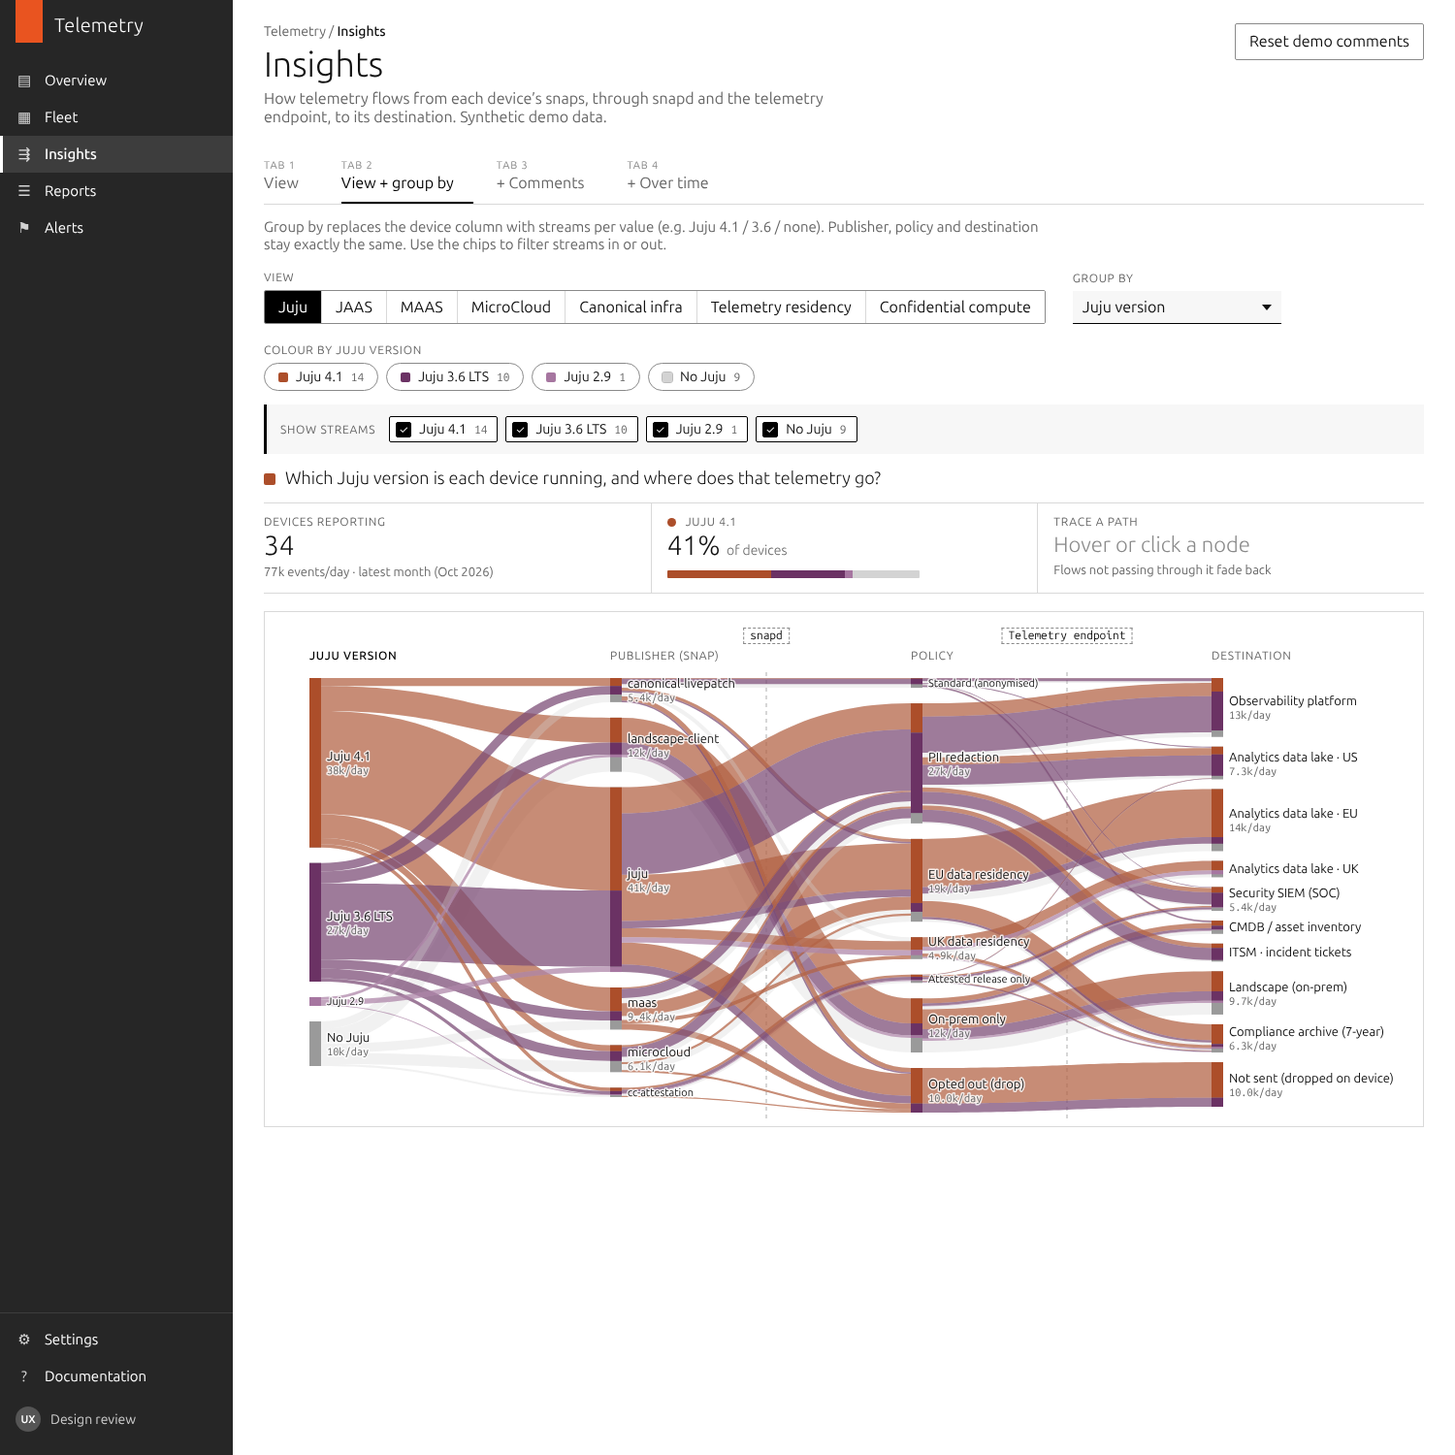
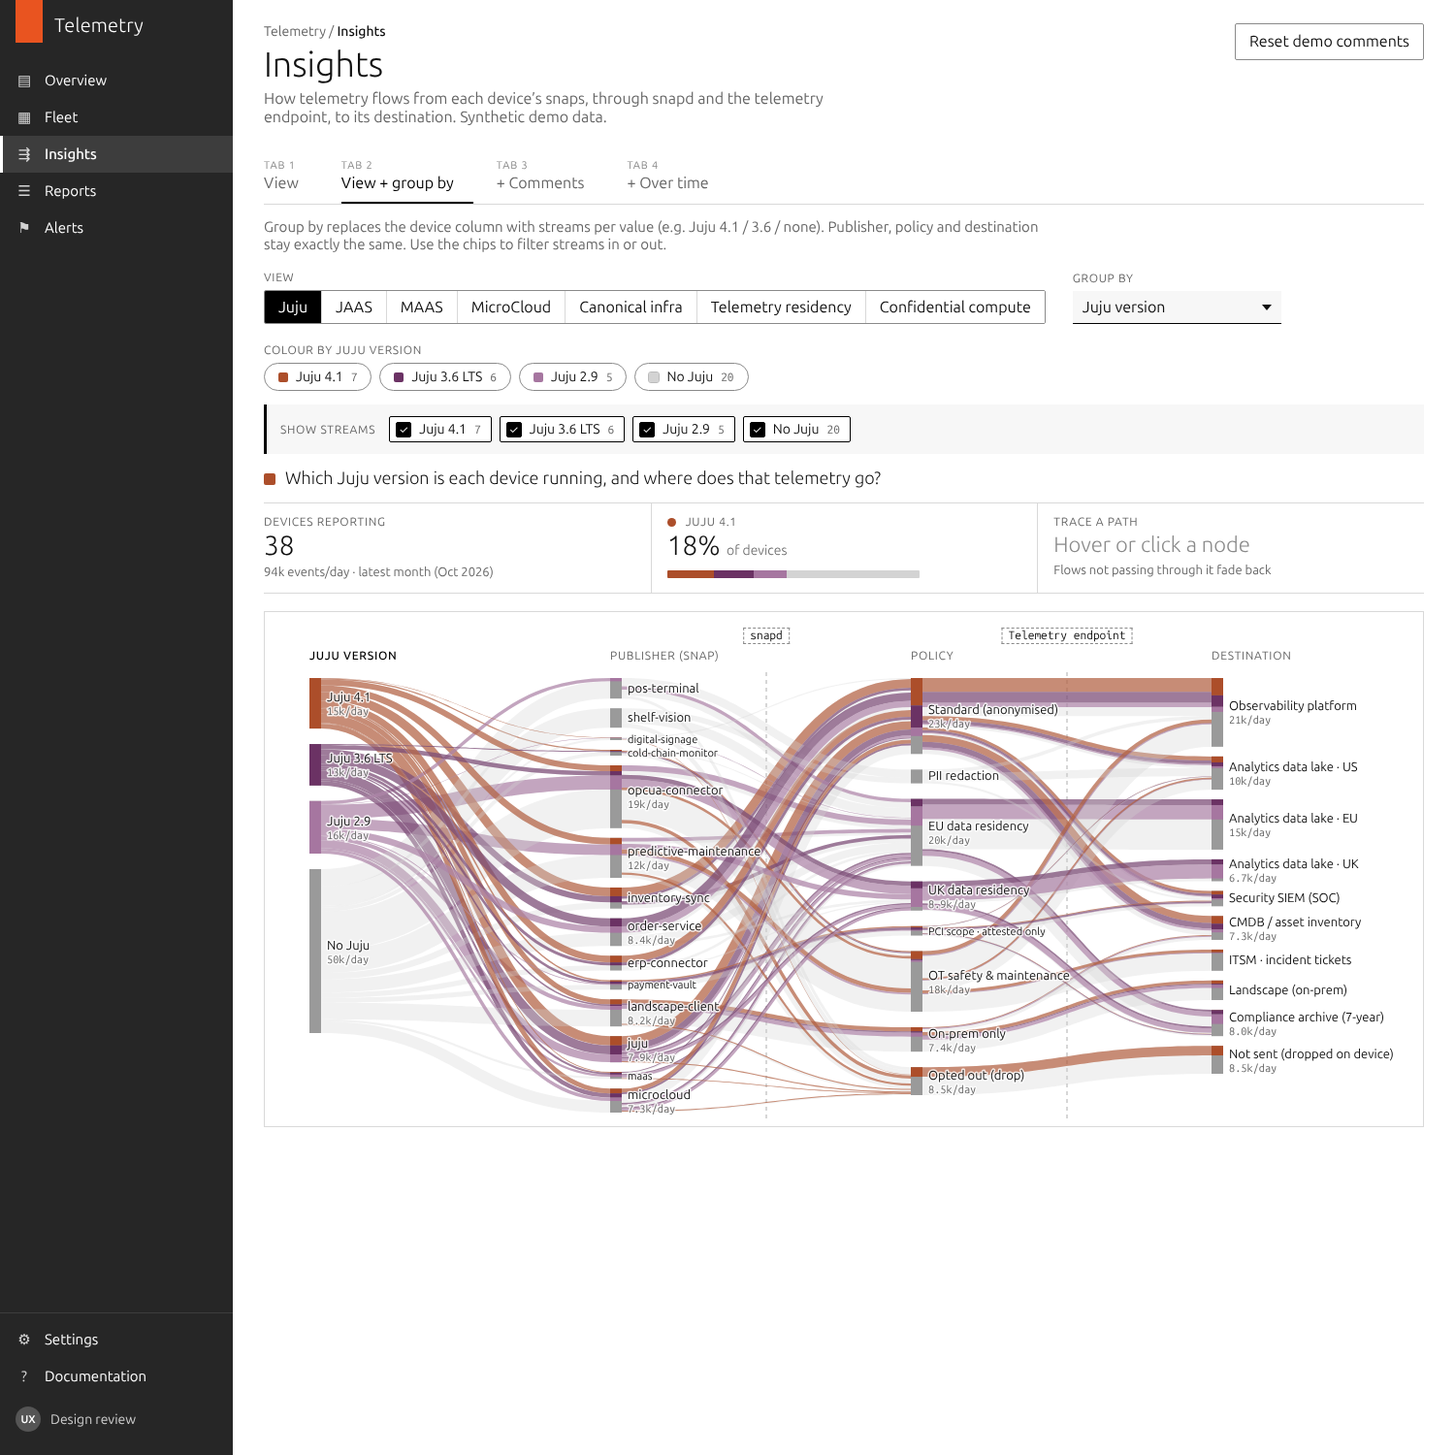
Model publishers as a customer's fleet, not Canonical's own snaps
Publishers are now the snaps a large retailer or manufacturer runs
across stores, factories, distribution centres, data centres and cloud
(pos-terminal, shelf-vision, opcua-connector, predictive-maintenance,
order-service, erp-connector, payment-vault, ...), with Canonical
infrastructure snaps as a minority. Adds a Site attribute (also a
group-by), an OT safety & maintenance policy, PCI-scope payment policy,
snap descriptions in tooltips, and seeded comments written by the
customer's own teams.

Claude-Session: https://claude.ai/code/session_0156BKrAD5wHGfcWHmuamSMf

diff --git a/js/data.js b/js/data.js
@@ -111,6 +111,10 @@ window.TL = window.TL || {};
       { id: 'tdx', label: 'Intel TDX', color: true },
       { id: 'snp', label: 'AMD SEV-SNP', color: true },
       { id: 'none', label: 'Not confidential', color: GREY }] },
+    site: { label: 'Site', short: 'Site', values: [
+      { id: 'store', label: 'Retail store' }, { id: 'factory', label: 'Factory floor' },
+      { id: 'dc', label: 'Distribution centre' }, { id: 'datacentre', label: 'Data centre' },
+      { id: 'cloud', label: 'Public cloud' }] },
     type: { label: 'Device type', short: 'Type', values: [
       { id: 'metal', label: 'Bare-metal server' }, { id: 'vm', label: 'Virtual machine' },
       { id: 'k8s', label: 'Kubernetes node' }, { id: 'edge', label: 'Edge device' }] },
@@ -135,19 +139,31 @@ window.TL = window.TL || {};
   // snaps into one stream and sends it to the telemetry endpoint, which
   // demultiplexes, routes and forwards. Labels are the snap names that
   // snapd enforces.
+  // A mix of the customer's own applications, partner software and a few
+  // Canonical infrastructure snaps, as a large retailer / manufacturer might
+  // run across stores, factories, distribution centres, data centres and cloud.
   const PUBLISHERS = { label: 'Publisher (snap)', values: [
-    { id: 'livepatch', label: 'canonical-livepatch' },
-    { id: 'landscape', label: 'landscape-client' },
-    { id: 'juju', label: 'juju', canonical: true },
-    { id: 'maas', label: 'maas', canonical: true },
-    { id: 'microcloud', label: 'microcloud', canonical: true },
-    { id: 'attest', label: 'cc-attestation' }] };
+    { id: 'pos', label: 'pos-terminal', note: 'Point-of-sale service on store tills' },
+    { id: 'shelfcam', label: 'shelf-vision', note: 'Computer-vision shelf monitoring (cameras)' },
+    { id: 'signage', label: 'digital-signage', note: 'In-store and factory display player' },
+    { id: 'coldchain', label: 'cold-chain-monitor', note: 'Refrigeration and temperature sensors' },
+    { id: 'plc', label: 'opcua-connector', note: 'Collects data from factory PLCs over OPC UA' },
+    { id: 'predmaint', label: 'predictive-maintenance', note: 'ML inference for equipment and vehicle wear' },
+    { id: 'inventory', label: 'inventory-sync', note: 'Stock levels between stores, DCs and ERP' },
+    { id: 'order', label: 'order-service', note: 'E-commerce order API' },
+    { id: 'erp', label: 'erp-connector', note: 'Integration with the ERP system' },
+    { id: 'payment', label: 'payment-vault', note: 'Card payment processing in a confidential VM' },
+    { id: 'landscape', label: 'landscape-client', note: 'Fleet management agent' },
+    { id: 'juju', label: 'juju', canonical: true, note: 'Application operations' },
+    { id: 'maas', label: 'maas', canonical: true, note: 'Bare-metal provisioning' },
+    { id: 'microcloud', label: 'microcloud', canonical: true, note: 'Edge/private cloud cluster' }] };
   const POLICIES = { label: 'Policy', values: [
     { id: 'standard', label: 'Standard (anonymised)' },
     { id: 'redact', label: 'PII redaction' },
     { id: 'eu-res', label: 'EU data residency' },
     { id: 'uk-res', label: 'UK data residency' },
-    { id: 'attested', label: 'Attested release only' },
+    { id: 'attested', label: 'PCI scope · attested only' },
+    { id: 'ot', label: 'OT safety & maintenance' },
     { id: 'local', label: 'On-prem only' },
     { id: 'drop', label: 'Opted out (drop)' }] };
   // Destinations are the customer's own systems (illustrative roles for a
@@ -172,12 +188,13 @@ window.TL = window.TL || {};
   //   'endpoint' – at the telemetry endpoint, after demultiplexing
   const ROUTING = [
     { id: 'R1', at: 'snapd', when: { consent: 'optout' }, policy: 'drop', to: [['discard', 1]] },
-    { id: 'R2', at: 'endpoint', when: { publisher: 'attest' }, policy: 'attested', to: [['siem', 0.6], ['archive', 0.25], ['lake-us', 0.15]] },
+    { id: 'R2', at: 'endpoint', when: { publisher: 'payment' }, policy: 'attested', to: [['siem', 0.6], ['archive', 0.25], ['lake-us', 0.15]] },
     { id: 'R3', at: 'endpoint', when: { publisher: 'landscape' }, policy: 'local', to: [['landscape', 0.8], ['cmdb', 0.2]] },
     { id: 'R4', at: 'endpoint', when: { sovereignty: 'eu' }, policy: 'eu-res', to: [['lake-eu', 0.75], ['archive', 0.25]] },
     { id: 'R5', at: 'endpoint', when: { sovereignty: 'uk' }, policy: 'uk-res', to: [['lake-uk', 0.75], ['archive', 0.25]] },
-    { id: 'R6', at: 'snapd', when: { publisher: ['juju', 'maas', 'microcloud'] }, policy: 'redact', to: [['observability', 0.45], ['lake-us', 0.25], ['itsm', 0.15], ['siem', 0.15]] },
-    { id: 'R7', at: 'endpoint', when: {}, policy: 'standard', to: [['observability', 0.5], ['cmdb', 0.25], ['siem', 0.1], ['lake-us', 0.15]] }
+    { id: 'R6', at: 'snapd', when: { publisher: ['pos', 'shelfcam'] }, policy: 'redact', to: [['lake-us', 0.6], ['observability', 0.25], ['siem', 0.15]] },
+    { id: 'R7', at: 'endpoint', when: { publisher: ['plc', 'predmaint', 'coldchain'] }, policy: 'ot', to: [['observability', 0.45], ['itsm', 0.35], ['lake-us', 0.2]] },
+    { id: 'R8', at: 'endpoint', when: {}, policy: 'standard', to: [['observability', 0.5], ['cmdb', 0.25], ['siem', 0.1], ['lake-us', 0.15]] }
   ];
   function route(attrs, publisher) {
     const ctx = Object.assign({ publisher: publisher }, attrs);
@@ -194,29 +211,45 @@ window.TL = window.TL || {};
   const REGION_SOV = { fra: 'eu', par: 'eu', ldn: 'uk' };
   const DEVICES = [];
   const plan = [
-    ['fra', 'metal', 3], ['fra', 'k8s', 2], ['fra', 'vm', 2],
-    ['par', 'metal', 2], ['par', 'edge', 2], ['par', 'vm', 1],
-    ['ldn', 'metal', 2], ['ldn', 'edge', 2], ['ldn', 'vm', 2],
-    ['nyc', 'metal', 3], ['nyc', 'k8s', 2], ['nyc', 'vm', 2],
-    ['sfo', 'k8s', 2], ['sfo', 'vm', 2],
-    ['sgp', 'metal', 1], ['sgp', 'edge', 2], ['sgp', 'vm', 2]
+    ['fra', 'metal', 3], ['fra', 'edge', 3], ['fra', 'k8s', 1], ['fra', 'vm', 1],
+    ['par', 'metal', 1], ['par', 'edge', 3], ['par', 'vm', 1],
+    ['ldn', 'metal', 1], ['ldn', 'edge', 3], ['ldn', 'vm', 1],
+    ['nyc', 'metal', 3], ['nyc', 'edge', 4], ['nyc', 'k8s', 2], ['nyc', 'vm', 1],
+    ['sfo', 'edge', 2], ['sfo', 'k8s', 1], ['sfo', 'vm', 2],
+    ['sgp', 'metal', 1], ['sgp', 'edge', 3], ['sgp', 'vm', 1]
   ];
-  const BASE_RATE = { livepatch: 260, landscape: 650, juju: 1300, maas: 520, microcloud: 800, attest: 220 };
-  const TYPE_SCALE = { metal: 1.5, k8s: 1.2, vm: 0.8, edge: 0.6 };
+  const BASE_RATE = { pos: 900, shelfcam: 1400, signage: 120, coldchain: 300, plc: 1100, predmaint: 700,
+    inventory: 800, order: 1000, erp: 500, payment: 300, landscape: 350, juju: 350, maas: 250, microcloud: 300 };
+  const SITE_BY_TYPE = {
+    edge: { store: 60, factory: 40 }, metal: { dc: 40, factory: 35, datacentre: 25 },
+    k8s: { datacentre: 50, cloud: 50 }, vm: { cloud: 70, datacentre: 30 }
+  };
+  // which application snaps a device runs, by site (probability per snap)
+  const SITE_SNAPS = {
+    store: { pos: 1, shelfcam: 0.5, signage: 0.6, coldchain: 0.5 },
+    factory: { plc: 1, predmaint: 0.6, signage: 0.2 },
+    dc: { inventory: 1, coldchain: 0.5, predmaint: 0.2 },
+    datacentre: { erp: 0.6, inventory: 0.4, order: 0.4 },
+    cloud: { order: 1, erp: 0.3, predmaint: 0.3 }
+  };
+  const TYPE_SCALE = { metal: 1.4, k8s: 1.2, vm: 0.9, edge: 1 };
 
   plan.forEach(function (p) {
     for (let i = 1; i <= p[2]; i++) {
       const region = p[0], type = p[1];
-      const a = { region: region, type: type };
+      const a = { region: region, type: type, site: pick(SITE_BY_TYPE[type]) };
       a.release = pick({ '2204': 45, '2404': 55 });
-      a.maas = type === 'metal' || type === 'edge' ? pick({ '3.6': 45, '3.5': 35, none: 20 }) : 'none';
+      a.maas = type === 'metal' ? pick({ '3.6': 45, '3.5': 35, none: 20 }) : type === 'edge' ? pick({ '3.6': 12, '3.5': 10, none: 78 }) : 'none';
       a.microcloud = (type === 'edge' || type === 'metal') && chance(0.35) ? 'member' : 'none';
-      a.juju = pick(type === 'vm' ? { '3.6': 30, '2.9': 15, none: 55 } : { '4.1': 10, '3.6': 50, '2.9': 20, none: 20 });
+      a.juju = pick(type === 'vm' ? { '3.6': 30, '2.9': 15, none: 55 } : type === 'edge' ? { '4.1': 5, '3.6': 15, '2.9': 5, none: 75 } : { '4.1': 10, '3.6': 50, '2.9': 20, none: 20 });
       a.jaas = a.juju === 'none' ? 'none' : (chance(0.25) ? 'jaas' : 'self');
       a.sovereignty = REGION_SOV[region] && chance(0.55) ? REGION_SOV[region] : 'none';
       a.confidential = (type === 'vm' || type === 'k8s') && chance(0.3) ? pick({ tdx: 60, snp: 40 }) : 'none';
       a.consent = chance(0.08) ? 'optout' : 'optin';
-      const extras = { landscape: chance(0.5), livepatch: chance(0.6) };
+      const extras = { landscape: chance(0.5), apps: [] };
+      const siteSnaps = SITE_SNAPS[a.site];
+      Object.keys(siteSnaps).forEach(function (k) { if (chance(siteSnaps[k])) extras.apps.push(k); });
+      if (!extras.apps.length) extras.apps.push(Object.keys(siteSnaps)[0]);
 
       const changes = [];
       if (a.juju === '3.6' && chance(0.55)) changes.push({ month: int(2, 11), attrs: { juju: '4.1' }, note: 'Upgraded to Juju 4.1' });
@@ -251,16 +284,15 @@ window.TL = window.TL || {};
     return a;
   }
   function publishersFor(d, a) {
-    const out = [];
-    if (d.extras.livepatch) out.push('livepatch');
+    const out = d.extras.apps.slice();
+    if (a.confidential !== 'none') out.push('payment');
     if (d.extras.landscape) out.push('landscape');
     if (a.juju !== 'none') out.push('juju');
     if (a.maas !== 'none') out.push('maas');
     if (a.microcloud === 'member') out.push('microcloud');
-    if (a.confidential !== 'none') out.push('attest');
-    if (!out.length) out.push('livepatch'); // every device runs at least one publishing snap
     return out;
   }
+
 
   // ---- Dimensions used as Sankey columns ------------------------------
   const DIMENSIONS = {
@@ -313,9 +345,9 @@ window.TL = window.TL || {};
     { id: 'microcloud', attr: 'microcloud', label: 'MicroCloud', question: 'Which devices belong to a MicroCloud cluster?' },
     { id: 'stack', attr: 'stack', label: 'Canonical infra', question: 'How much of the fleet runs on a full Canonical stack (MAAS / MicroCloud + Juju)?' },
     { id: 'sovereignty', attr: 'sovereignty', label: 'Telemetry residency', question: 'Which residency rule does each device’s telemetry follow, and where does it end up?' },
-    { id: 'confidential', attr: 'confidential', label: 'Confidential compute', question: 'Which devices run confidential VMs, and where does their attestation evidence go?' }
+    { id: 'confidential', attr: 'confidential', label: 'Confidential compute', question: 'Which devices run confidential VMs, and where does their payment telemetry go?' }
   ];
-  const GROUP_BYS = ['device', 'juju', 'jaas', 'maas', 'microcloud', 'stack', 'sovereignty', 'confidential', 'type', 'region', 'release'];
+  const GROUP_BYS = ['device', 'site', 'juju', 'jaas', 'maas', 'microcloud', 'stack', 'sovereignty', 'confidential', 'type', 'region', 'release'];
 
   Object.assign(TL, {
     MONTHS: MONTHS, monthLabel: monthLabel,

diff --git a/js/comments.js b/js/comments.js
@@ -20,29 +20,29 @@
  */
 (function (TL) {
   'use strict';
-  const KEY = 'tl.insights.comments.v5';
+  const KEY = 'tl.insights.comments.v6';
 
   const SEED = [
     { anchor: { view: 'juju', groupBy: 'juju', node: 'juju:2.9', period: null },
-      author: 'Product · Juju', body: '2.9 devices are still publishing through the Juju agent. Good list for upgrade outreach — can we export it?' },
+      author: 'Platform engineering', body: 'These are the last Juju 2.9 deployments. Can we export the device list for the upgrade backlog?' },
     { anchor: { view: 'juju', groupBy: 'juju', node: 'juju:4.1', period: '2026-06' },
-      author: 'Field engineering · EMEA', body: '4.1 upgrades pick up from here. Matches the rollout we did with the Frankfurt customers.' },
+      author: 'Infrastructure ops · EMEA', body: '4.1 upgrades pick up from here, after the Frankfurt data-centre maintenance window.' },
     { anchor: { view: 'juju', groupBy: 'device', node: 'device:fra-metal-01', period: null },
-      author: 'UX research', body: 'Good example device for the interview walkthrough: MAAS + Juju, EU residency.' },
+      author: 'Plant IT · Frankfurt', body: 'Line 3 controller. Its opcua-connector volume doubled after the new sensors went in; expected.' },
     { anchor: { view: 'jaas', groupBy: 'jaas', node: 'jaas:jaas', period: '2026-04' },
-      author: 'Product · JAAS', body: 'Most JAAS growth is existing self-hosted controllers moving over, not net-new Juju users.' },
-    { anchor: { view: 'maas', groupBy: 'device', node: 'publisher:maas', period: null },
-      author: 'Telemetry team', body: 'The maas snap is one of the largest publishers by volume. Worth checking its sampling rate in snapd.' },
-    { anchor: { view: 'microcloud', groupBy: 'type', node: 'type:edge', period: null },
-      author: 'Product · MicroCloud', body: 'Edge devices are where MicroCloud adoption is concentrated.' },
+      author: 'Platform engineering', body: 'We started consolidating self-hosted controllers into JAAS in April.' },
+    { anchor: { view: 'maas', groupBy: 'site', node: 'publisher:shelfcam', period: null },
+      author: 'Data protection officer', body: 'shelf-vision is camera-derived. Confirm snapd’s PII redaction (R6) strips faces before anything leaves the store.' },
+    { anchor: { view: 'microcloud', groupBy: 'site', node: 'site:store', period: null },
+      author: 'Store systems', body: 'MicroCloud is being rolled out store by store to replace the old back-office servers.' },
     { anchor: { view: 'sovereignty', groupBy: 'sovereignty', node: 'destination:lake-us', period: null },
-      author: 'Security engineering', body: 'Telemetry from EU-residency devices still reaches the US data lake via rule R2 (15% of attestation evidence is copied there). Rule order needs fixing so residency wins.' },
+      author: 'Security operations', body: 'Telemetry from EU-residency devices still reaches the US data lake via rule R2 (15% of payment-vault telemetry is copied there). Rule order needs fixing so residency wins.' },
     { anchor: { view: 'sovereignty', groupBy: 'device', node: 'policy:eu-res', period: '2026-05' },
-      author: 'Legal', body: 'EU residency policy roll-out lands here. Confirm the date with the customer before we present.' },
-    { anchor: { view: 'confidential', groupBy: 'confidential', node: 'publisher:attest', period: '2026-08' },
-      author: 'Product · Confidential computing', body: 'Attestation volume tracks CC enablement closely. Use it as the adoption KPI.' },
-    { anchor: { view: 'stack', groupBy: 'stack', node: 'stack:full', period: null },
-      author: 'Strategy', body: 'Full-stack devices publish the richest telemetry. Make this the default lens for the exec review.' }
+      author: 'Legal · EU', body: 'EU residency policy went live here. Matches the date in our data-processing records.' },
+    { anchor: { view: 'confidential', groupBy: 'confidential', node: 'publisher:payment', period: '2026-08' },
+      author: 'Payments team', body: 'payment-vault only runs on confidential VMs, so its volume is a good proxy for how far the PCI migration has got.' },
+    { anchor: { view: 'stack', groupBy: 'site', node: 'site:factory', period: null },
+      author: 'Manufacturing IT', body: 'Factories are where predictive-maintenance and OPC UA telemetry dominate. These go to ITSM under the OT policy.' }
   ];
 
   function uid() { return 'cm_' + Math.random().toString(36).slice(2, 10); }

diff --git a/js/app.js b/js/app.js
@@ -435,13 +435,13 @@
     if (n.dim === 'device') {
       const d = TL.deviceAt(n.val, periodIndex());
       const a = d.attrs;
-      body = '<dl class="tooltip__attrs">' + ['type', 'region', 'juju', 'jaas', 'maas', 'microcloud', 'sovereignty', 'confidential', 'release'].map(function (k) {
+      body = '<dl class="tooltip__attrs">' + ['site', 'type', 'region', 'juju', 'jaas', 'maas', 'microcloud', 'sovereignty', 'confidential', 'release'].map(function (k) {
         return '<dt>' + esc(TL.ATTRIBUTES[k].short) + '</dt><dd' + (k === view().attr ? ' class="is-view"' : '') + '>' + esc(TL.valueOf(k, a[k]).label) + '</dd>';
       }).join('') + '</dl>';
       const hist = d.changes.filter(function (c) { return c.month <= periodIndex(); });
       if (hist.length) body += '<div class="tooltip__hist">' + hist.map(function (c) { return esc(TL.monthLabel(TL.MONTHS[Math.min(c.month, LAST)], true)) + ' · ' + esc(c.note); }).join('<br>') + '</div>';
     } else {
-      body = segBreakdown(n.seg, n.value);
+      body = (v.note ? '<div class="tooltip__note">' + esc(v.note) + '</div>' : '') + segBreakdown(n.seg, n.value);
     }
     if (n.dim === 'policy') {
       const rules = TL.ROUTING.filter(function (r) { return r.policy === n.val; });

diff --git a/css/app.css b/css/app.css
@@ -209,6 +209,7 @@ body[data-tab="3"] .insights__body, body[data-tab="4"] .insights__body { grid-te
 .tooltip[hidden] { display: none; }
 .tooltip strong { font-weight: 500; display: block; }
 .tooltip__dim { font-size: .6875rem; text-transform: uppercase; letter-spacing: .06em; color: #bbb; }
+.tooltip__note { color: #ddd; font-size: .75rem; margin: 2px 0 4px; }
 .tooltip__hint { color: #bbb; margin-top: 4px; font-size: .75rem; }
 
 @media (max-width: 1100px) {

diff --git a/README.md b/README.md
@@ -29,6 +29,24 @@ Open `index.html` directly in a browser; there's no build step. All data is **sy
 | 3 · + Comments | Comments on any node, scoped to view and group-by. Comments on the same node in other contexts are linked |
 | 4 · + Over time | 12-month scrubber with play, deltas against a baseline, comments pinned to a month, and timeline markers |
 
+## Publishers (snaps)
+
+The fleet is modelled on a large retailer or manufacturer, spread across retail stores, factory floors, distribution centres, data centres and public cloud. Most publishers are the customer's own or partner applications; Canonical infrastructure snaps are a minority.
+
+| Site | Typical snaps |
+|---|---|
+| Retail store | `pos-terminal`, `shelf-vision`, `digital-signage`, `cold-chain-monitor` |
+| Factory floor | `opcua-connector`, `predictive-maintenance`, `digital-signage` |
+| Distribution centre | `inventory-sync`, `cold-chain-monitor`, `predictive-maintenance` |
+| Data centre | `erp-connector`, `inventory-sync`, `order-service` |
+| Public cloud | `order-service`, `erp-connector`, `predictive-maintenance` |
+| Any site | `landscape-client`, plus `juju`, `maas`, `microcloud` where used. `payment-vault` runs on confidential VMs |
+
+Policy rules route these by sensitivity:
+- camera and till data get PII redaction in snapd (R6),
+- factory and sensor data follow the OT policy to observability and ITSM (R7),
+- payment data is PCI scope, attested only (R2).
+
 ## Views
 
 | View | Colours devices by | Values |
@@ -62,7 +80,7 @@ GROUP_BYS     ['device', …attributes]
 - Node ids are `"<dimension>:<value>"` (e.g. `juju:3.6`, `device:fra-metal-01`, `policy:eu-res`). They stay the same across time, views and group-bys.
 - Columns are top-aligned, so the top stream runs horizontally and lower streams rise into it. Node order is fixed, so playback doesn't reshuffle.
 
-The routing rules deliberately contain a realistic flaw. Rule R2 (attestation evidence, applied at the endpoint) comes before R4 (EU residency), so a little attestation evidence from EU-residency devices is copied to the US data lake. The Telemetry residency view makes this visible, and a seeded comment flags it.
+The routing rules deliberately contain a realistic flaw. Rule R2 (payment-vault telemetry, applied at the endpoint) comes before R4 (EU residency), so a little payment telemetry from EU-residency devices is copied to the US data lake. The Telemetry residency view makes this visible, and a seeded comment flags it.
 
 ## Comments (`js/comments.js`)
 

diff --git a/CLAUDE.md b/CLAUDE.md
@@ -11,6 +11,7 @@ Prototype of the **Insights** page (Telemetry product): a Sankey shown as four d
 - Do **not** describe snapd as a "gateway" — that term is not to be used. Describe what it does (enforces rules and naming, multiplexes into one stream).
 - Publishers are snaps; label them with their snap names.
 - "Sovereignty" here means **telemetry residency** only (which residency rule a device's telemetry follows), not sovereignty of the device or its workloads. Use "Telemetry residency" in the UI.
+- Publishers should read as the customer's fleet (store, factory, DC, data-centre and cloud applications such as pos-terminal, opcua-connector, order-service), with Canonical snaps (juju, maas, microcloud, landscape-client) as a minority — avoid a "for us by us" feel. Seeded comments are written by the customer's teams, not Canonical's.
 - Destinations are the customer's own systems (observability, data lakes, SIEM, CMDB, ITSM, Landscape, archive), not Canonical services.
 - Goal is to show where data goes and why. Zone-crossing flags / "leaving its zone" KPIs are explicitly not an objective.
 
